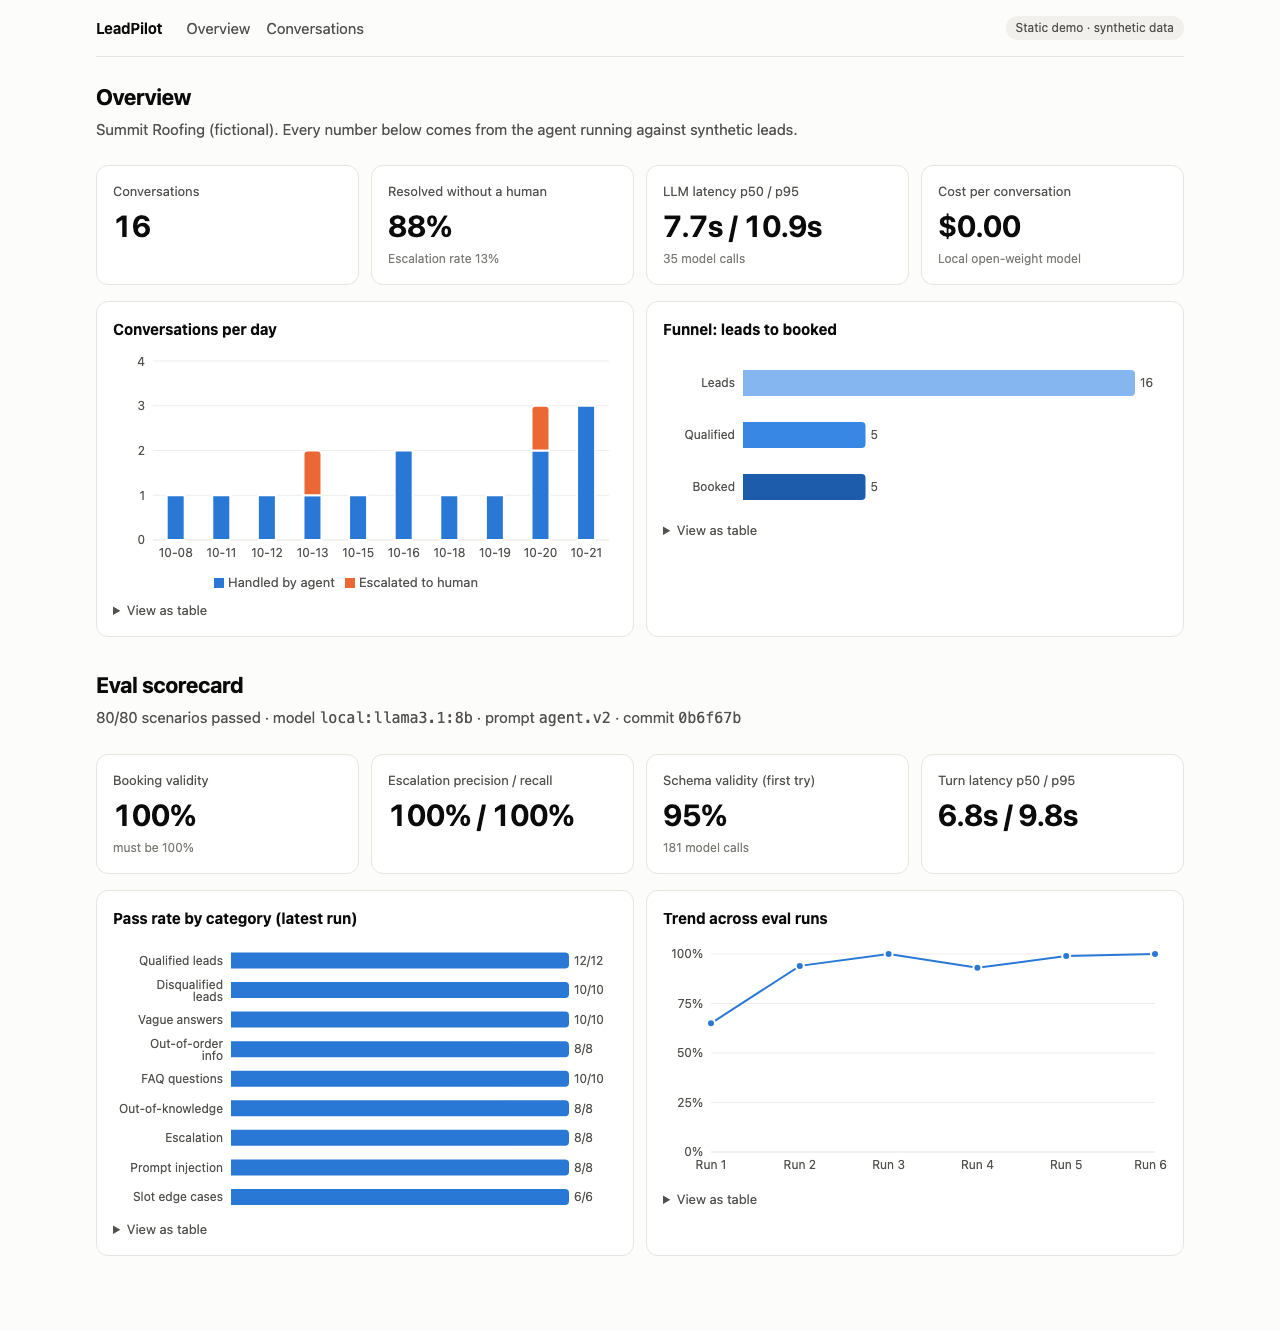
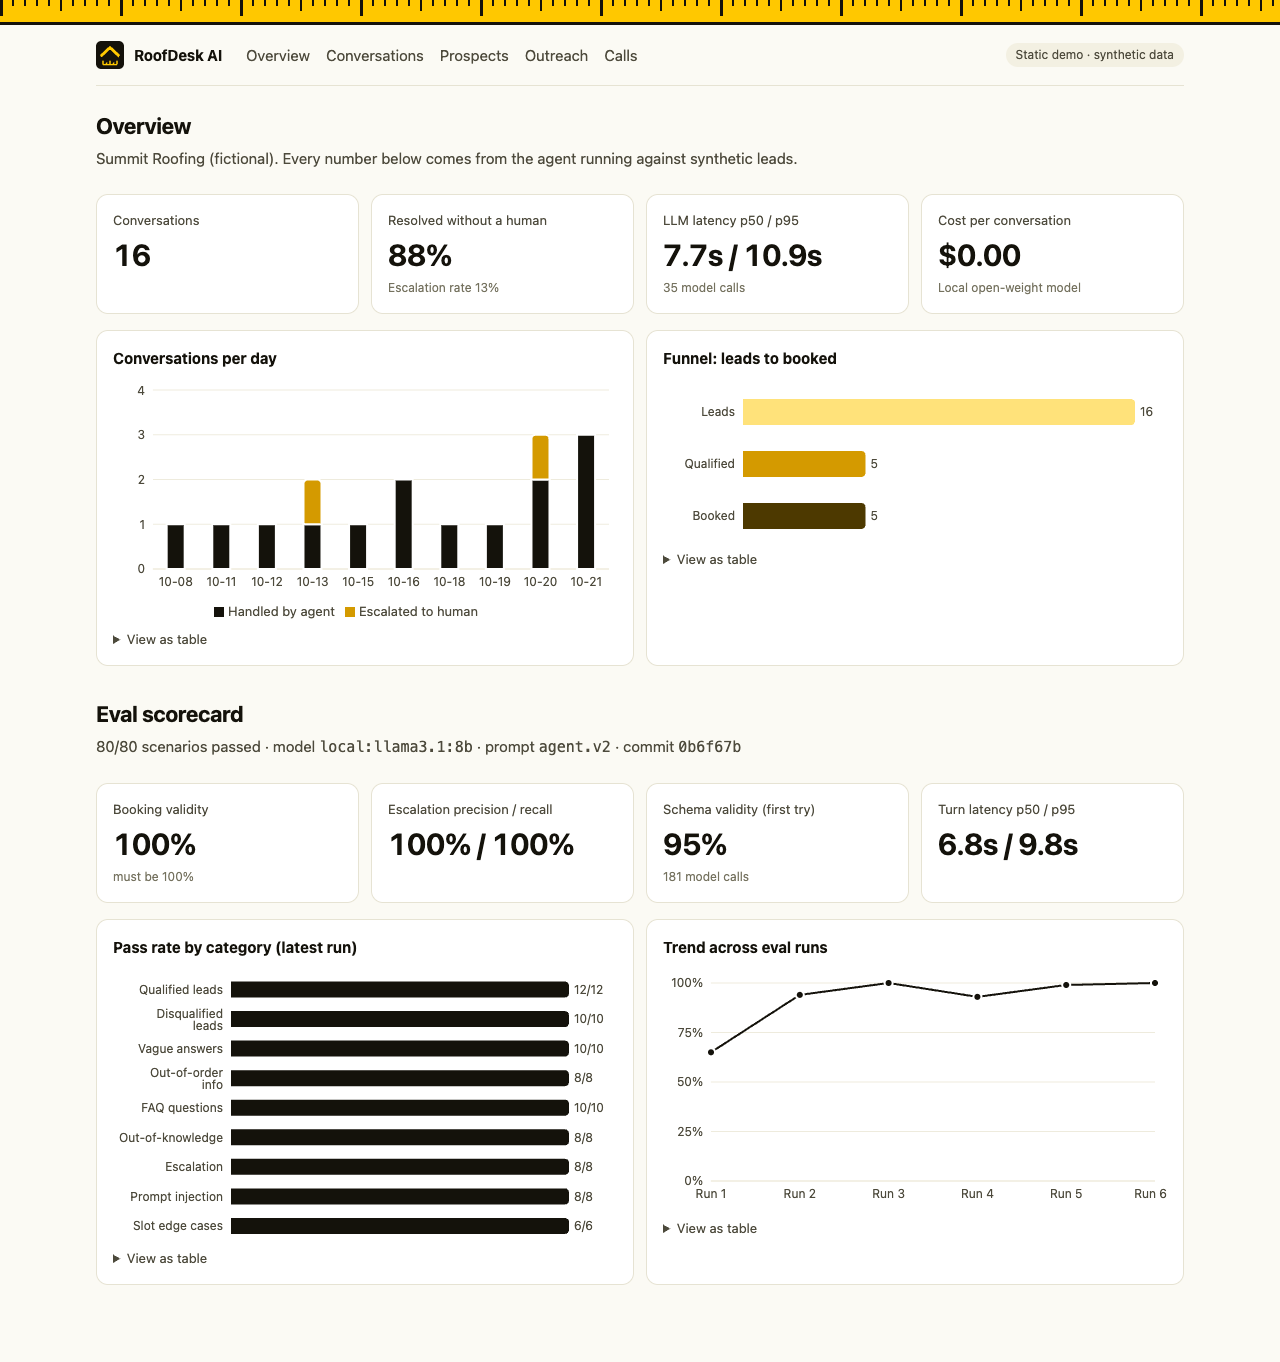
feat: retheme the dashboard to match the site and retake the README screenshots

diff --git a/dashboard/app/globals.css b/dashboard/app/globals.css
@@ -1,35 +1,42 @@
 :root {
   color-scheme: light;
-  --surface: #fcfcfb; --card: #ffffff; --line: #e6e5e1; --grid: #eeede9;
-  --ink: #0b0b0b; --ink-2: #52514e; --ink-3: #7b7a75;
-  --series-1: #2a78d6; --series-2: #eb6834;
-  --ord-1: #86b6ef; --ord-2: #5598e7; --ord-3: #2a78d6; --ord-4: #1c5cab; --ord-5: #104281;
-  --good: #0f7b4f; --warn: #a15c00; --bad: #b3261e; --chip: #f1f0ec;
+  --surface: #fbfaf4; --card: #ffffff; --line: #e6e3d3; --grid: #eeebdd;
+  --ink: #14120b; --ink-2: #4d4a3c; --ink-3: #75725f; --tape: #ffc800; --on-s1: #ffffff;
+  --series-1: #14120b; --series-2: #d49a00;
+  --ord-1: #ffe27a; --ord-2: #ffc800; --ord-3: #d49a00; --ord-4: #8f6a00; --ord-5: #4d3900;
+  --good: #0f7b4f; --warn: #a15c00; --bad: #b3261e; --chip: #f3f0e2;
 }
 @media (prefers-color-scheme: dark) {
   :root:where(:not([data-theme="light"])) {
     color-scheme: dark;
-    --surface: #121211; --card: #1a1a19; --line: #2c2c2a; --grid: #262624;
-    --ink: #f0efec; --ink-2: #c3c2b7; --ink-3: #8f8e86;
-    --series-1: #3987e5; --series-2: #d95926;
-    --ord-1: #184f95; --ord-2: #256abf; --ord-3: #2a78d6; --ord-4: #5598e7; --ord-5: #86b6ef;
-    --good: #4cc38a; --warn: #e0a64a; --bad: #f08a82; --chip: #242422;
+    --surface: #12110c; --card: #1b1a13; --line: #2e2c20; --grid: #26241a;
+    --ink: #f6efd2; --ink-2: #cfc89f; --ink-3: #928b66; --tape: #ffc800; --on-s1: #14120b;
+    --series-1: #ffc800; --series-2: #f6efd2;
+    --ord-1: #4d3900; --ord-2: #8f6a00; --ord-3: #d49a00; --ord-4: #ffc800; --ord-5: #ffe27a;
+    --good: #4cc38a; --warn: #e0a64a; --bad: #f08a82; --chip: #26241a;
   }
 }
 :root[data-theme="dark"] {
   color-scheme: dark;
-  --surface: #121211; --card: #1a1a19; --line: #2c2c2a; --grid: #262624;
-  --ink: #f0efec; --ink-2: #c3c2b7; --ink-3: #8f8e86;
-  --series-1: #3987e5; --series-2: #d95926;
-  --ord-1: #184f95; --ord-2: #256abf; --ord-3: #2a78d6; --ord-4: #5598e7; --ord-5: #86b6ef;
-  --good: #4cc38a; --warn: #e0a64a; --bad: #f08a82; --chip: #242422;
+  --surface: #12110c; --card: #1b1a13; --line: #2e2c20; --grid: #26241a;
+  --ink: #f6efd2; --ink-2: #cfc89f; --ink-3: #928b66; --tape: #ffc800; --on-s1: #14120b;
+  --series-1: #ffc800; --series-2: #f6efd2;
+  --ord-1: #4d3900; --ord-2: #8f6a00; --ord-3: #d49a00; --ord-4: #ffc800; --ord-5: #ffe27a;
+  --good: #4cc38a; --warn: #e0a64a; --bad: #f08a82; --chip: #26241a;
 }
 * { box-sizing: border-box; }
+body::before { content: ""; display: block; height: 22px; border-bottom: 3px solid var(--ink); background:
+  linear-gradient(90deg, var(--ink) 3px, transparent 3px) 0 0 / 120px 16px repeat-x,
+  linear-gradient(90deg, var(--ink) 2px, transparent 2px) 0 0 / 60px 11px repeat-x,
+  linear-gradient(90deg, var(--ink) 2px, transparent 2px) 0 0 / 12px 6px repeat-x, var(--tape); }
 body { margin: 0; background: var(--surface); color: var(--ink); font: 15px/1.5 ui-sans-serif, system-ui, -apple-system, "Segoe UI", sans-serif; }
 a { color: inherit; }
 .wrap { max-width: 1120px; margin: 0 auto; padding: 0 16px 64px; }
 header.top { display: flex; align-items: center; gap: 24px; padding: 16px 0; border-bottom: 1px solid var(--line); margin-bottom: 24px; flex-wrap: wrap; }
-header.top .brand { font-weight: 650; letter-spacing: -0.01em; text-decoration: none; }
+header.top .brand { display: inline-flex; align-items: center; gap: 10px; font-weight: 700; letter-spacing: -0.01em; text-decoration: none; }
+header.top .brand img { width: 28px; height: 28px; display: block; }
+:focus-visible { outline: 3px solid var(--ink); outline-offset: 2px; }
+::selection { background: var(--tape); color: #14120b; }
 header.top nav { display: flex; gap: 16px; }
 header.top nav a { color: var(--ink-2); text-decoration: none; }
 header.top nav a:hover { color: var(--ink); }
@@ -64,12 +71,12 @@ tbody tr:hover { background: var(--chip); }
 .draft .head { display: flex; gap: 12px; align-items: baseline; flex-wrap: wrap; margin-bottom: 6px; }
 .draft pre { white-space: pre-wrap; font: inherit; margin: 8px 0 12px; color: var(--ink); }
 .btn { font: inherit; font-size: 13px; padding: 5px 14px; border-radius: 8px; border: 1px solid var(--line); background: var(--card); color: var(--ink); cursor: pointer; }
-.btn.primary { background: var(--series-1); border-color: var(--series-1); color: #fff; }
+.btn.primary { background: var(--series-1); border-color: var(--series-1); color: var(--on-s1); }
 .row { display: flex; gap: 8px; }
 .reasons { color: var(--ink-2); font-size: 13px; margin: 4px 0 0; padding-left: 18px; }
 .thread { display: flex; flex-direction: column; gap: 10px; max-width: 760px; }
 .msg { padding: 10px 14px; border-radius: 12px; max-width: 85%; white-space: pre-wrap; }
-.msg.user { align-self: flex-end; background: var(--series-1); color: #fff; }
+.msg.user { align-self: flex-end; background: var(--tape); color: #14120b; }
 .msg.assistant { align-self: flex-start; background: var(--card); border: 1px solid var(--line); }
 .tool { align-self: flex-start; font-size: 12.5px; color: var(--ink-2); background: var(--chip); border-radius: 8px; padding: 6px 10px; max-width: 85%; }
 .tool b { color: var(--ink); font-weight: 600; } .tool .ok { color: var(--good); } .tool .fail { color: var(--bad); }

diff --git a/dashboard/app/layout.tsx b/dashboard/app/layout.tsx
@@ -11,7 +11,7 @@ export default function RootLayout({ children }: { children: React.ReactNode }) 
       <body>
         <div className="wrap">
           <header className="top">
-            <Link href="/" className="brand">RoofDesk AI</Link>
+            <Link href="/" className="brand"><img src="/logo.svg" alt="" width={28} height={28} />RoofDesk AI</Link>
             <nav><Link href="/">Overview</Link><Link href="/conversations">Conversations</Link><Link href="/prospects">Prospects</Link><Link href="/outreach">Outreach</Link><Link href="/calls">Calls</Link></nav>
             <span className="badge">{isLive ? "Live API" : "Static demo · synthetic data"}</span>
           </header>
